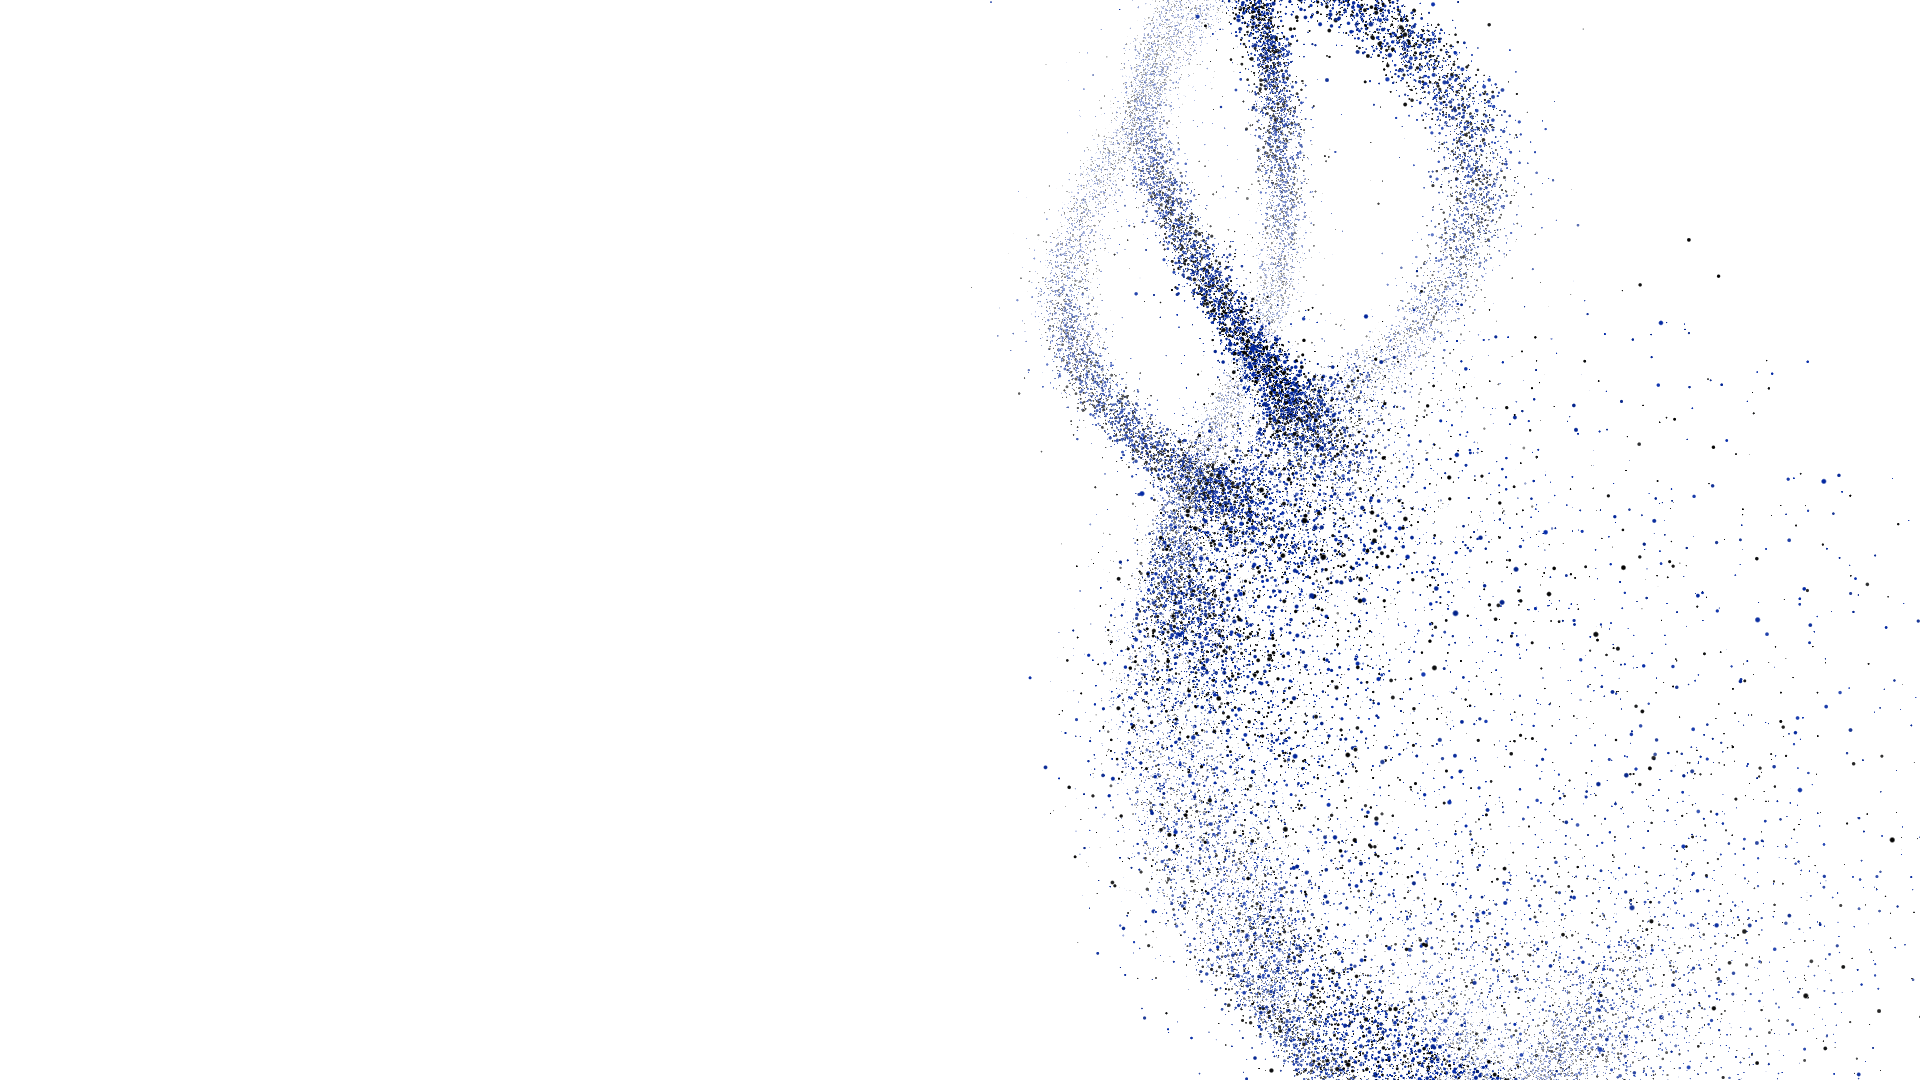
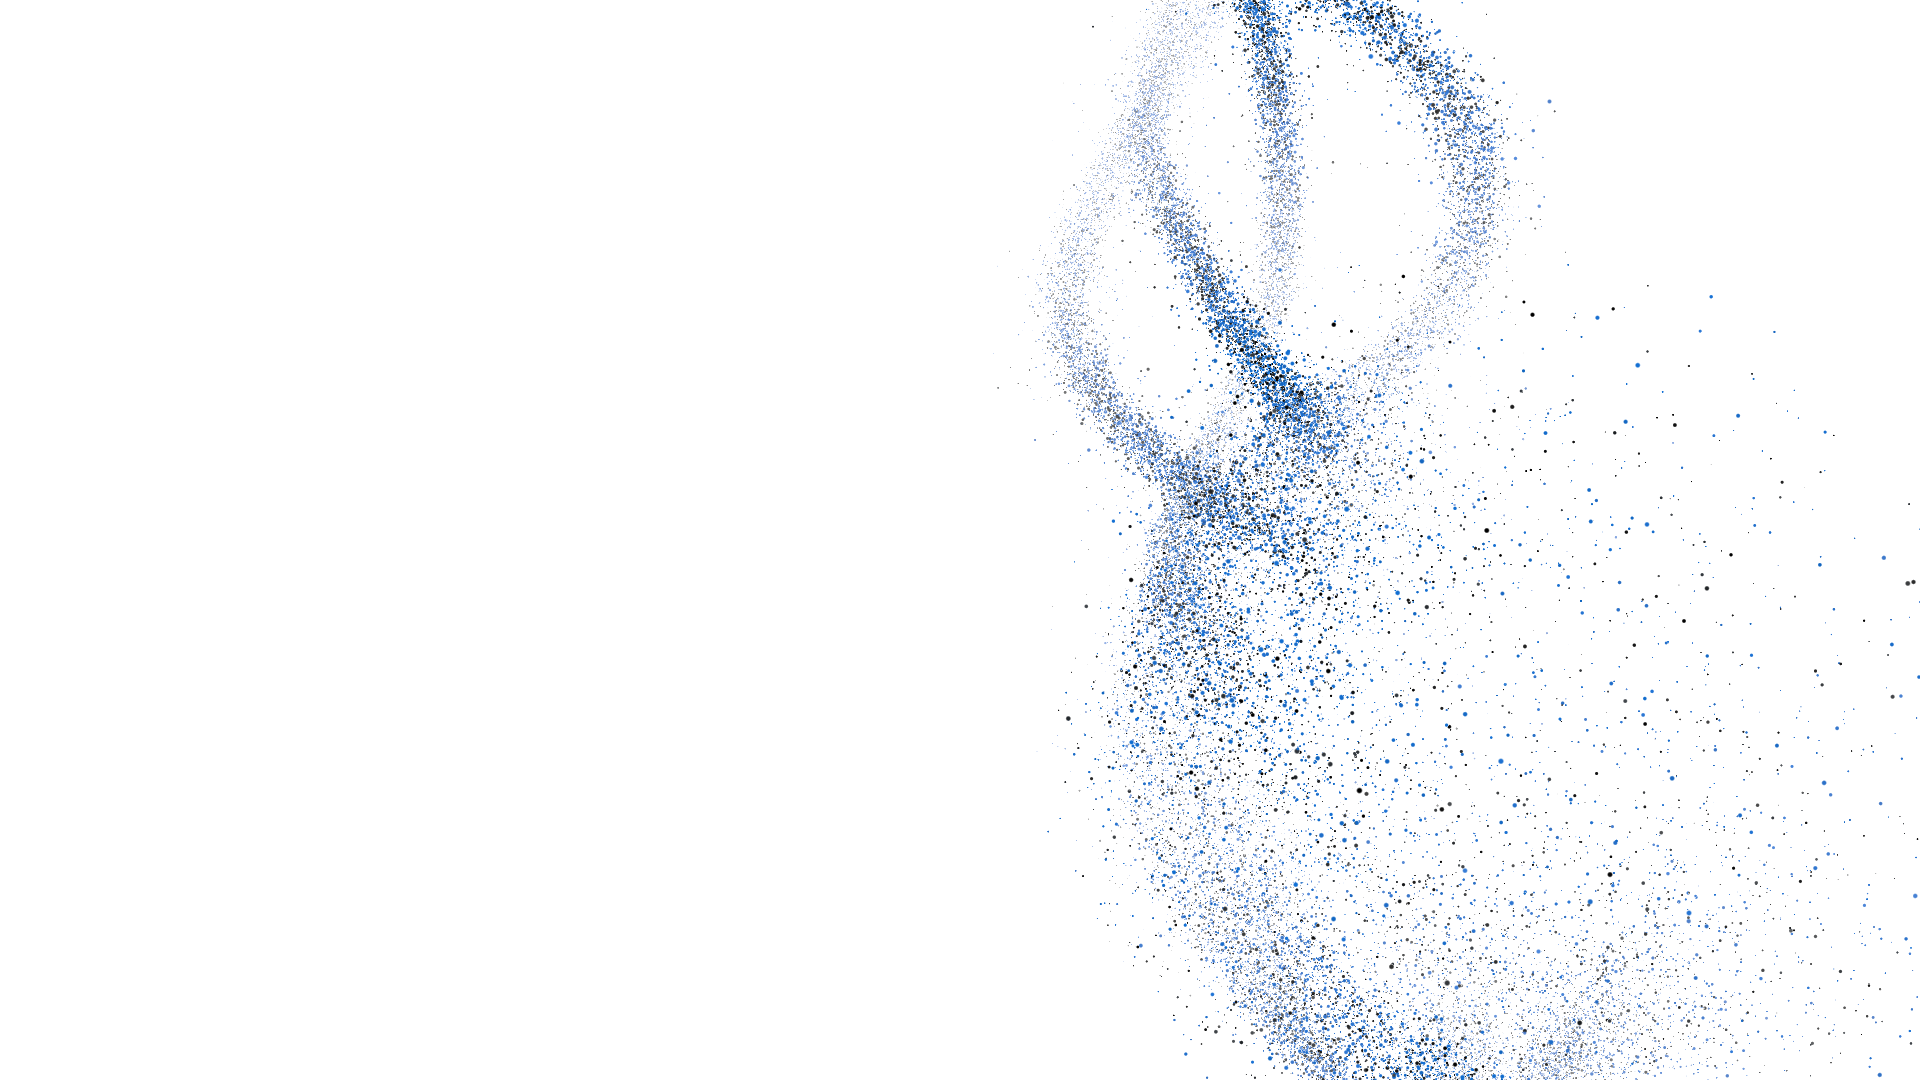
Fix colour space so particles render the exact brand colours
Claude-Session: https://claude.ai/code/session_01LC9PoW5GSUPN2TTK73ZPiw

Changed region(s): [[0.5312, 0.0, 0.9062, 1.0]]

diff --git a/index.html b/index.html
@@ -156,7 +156,7 @@ const mat = new THREE.ShaderMaterial({
       gl_Position = projectionMatrix * mv;
       float depth = sin(th);                                   // -1 pozadi, +1 napred
       gl_PointSize = aSize * uPx * (1.0 + 0.3 * depth) * (10.0 / -mv.z);
-      vColor = mix(aColor, vec3(1.0), 0.3 * (1.0 - depth) * 0.5);   // zadnje svetlije
+      vColor = mix(aColor, vec3(1.0), 0.12 * (1.0 - depth) * 0.5);   // zadnje svetlije
       vAlpha = (0.78 + 0.22 * depth) * smoothstep(0.0, 0.06, t) * smoothstep(1.0, 0.94, t);
     }`,
   fragmentShader: /* glsl */`
@@ -168,6 +168,7 @@ const mat = new THREE.ShaderMaterial({
       float a = smoothstep(0.5, 0.2, d) * vAlpha;
       if (a < 0.08) discard;
       gl_FragColor = vec4(vColor, a);
+      #include <colorspace_fragment>
     }`,
 });
 
